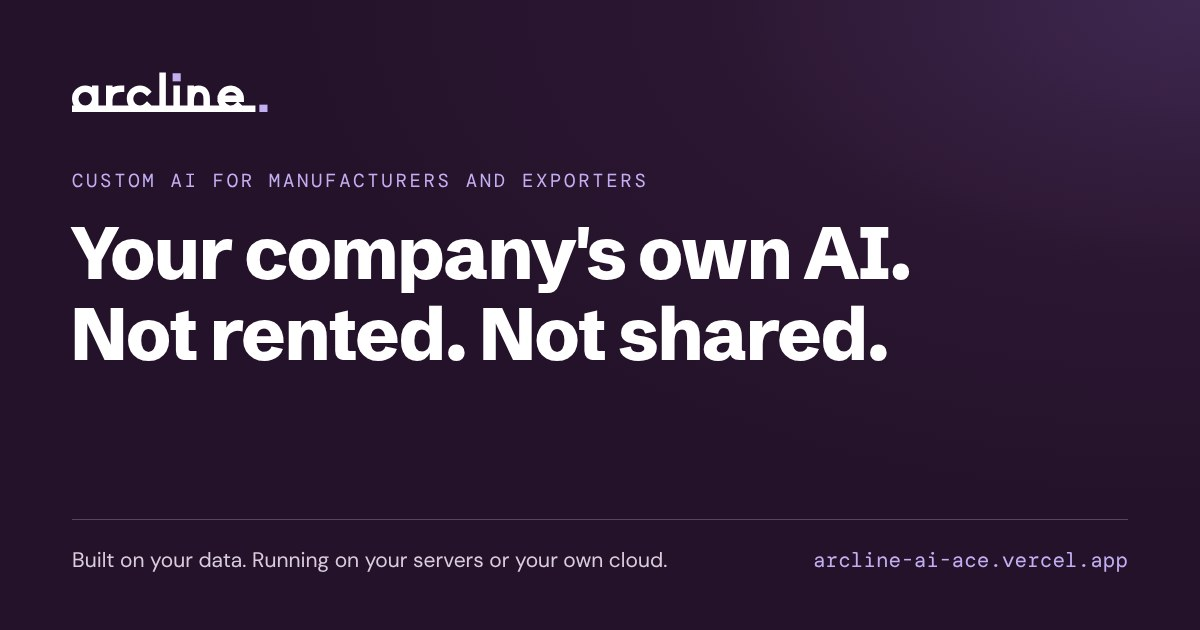
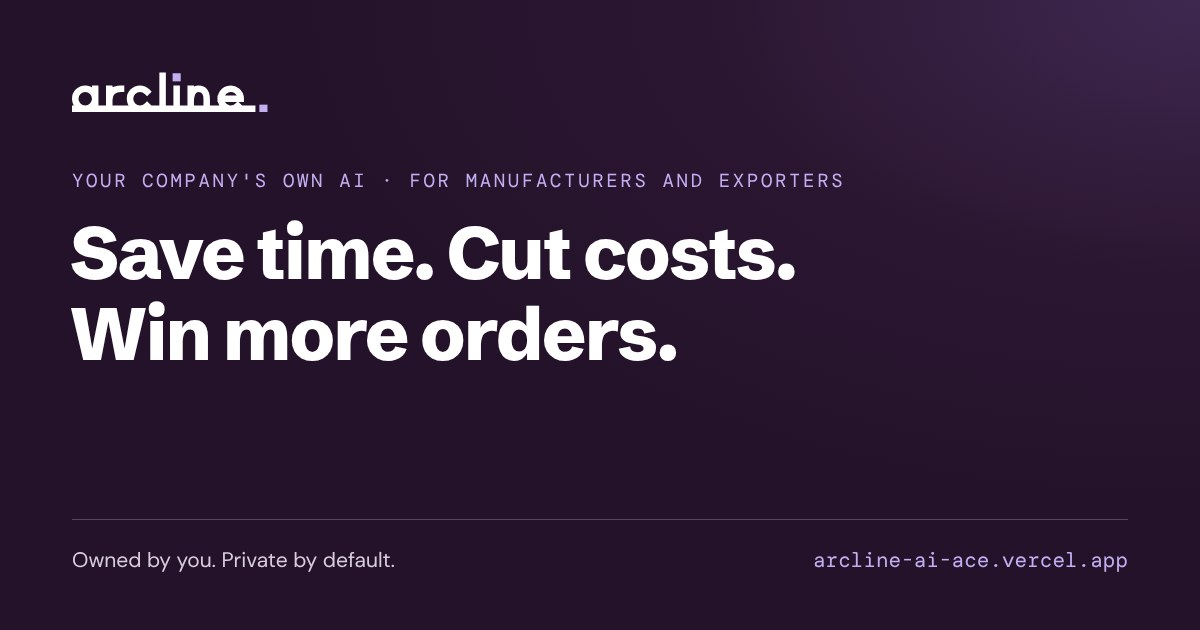
Preview: lead with time, cost and orders; privacy second
Headline "Save time. Cut costs. Win more orders." The problem is time lost to
paperwork, the three tiles are outcomes, ownership moves to "And it stays
yours". New share image; notes record the positioning and open questions.

Claude-Session: https://claude.ai/code/session_01HQcxS16Qqmuyumo6rD9J1n

diff --git a/index.html b/index.html
@@ -3,17 +3,17 @@
 <head>
   <meta charset="UTF-8" />
   <meta name="viewport" content="width=device-width, initial-scale=1.0" />
-  <title>Arcline — Your company's own AI</title>
-  <meta name="description" content="Arcline builds your company's own AI: built on your data, running on your servers or your own cloud account. Not rented. Not shared." />
+  <title>Arcline — AI that saves time, cuts costs and wins orders</title>
+  <meta name="description" content="Custom AI for manufacturers and exporters. It saves your team hours, cuts costs and helps you win more orders. Owned by you, private by default." />
 
-  <meta property="og:title" content="Arcline — Your company's own AI" />
-  <meta property="og:description" content="Your company's own AI. Not rented. Not shared." />
+  <meta property="og:title" content="Arcline — Save time. Cut costs. Win more orders." />
+  <meta property="og:description" content="Your company's own AI, built for manufacturers and exporters." />
   <meta property="og:url" content="https://arcline-ai-ace.vercel.app/" />
   <meta property="og:type" content="website" />
   <meta property="og:image" content="https://arcline-ai-ace.vercel.app/assets/og-banner.jpg" />
   <meta property="og:image:width" content="1200" />
   <meta property="og:image:height" content="630" />
-  <meta property="og:image:alt" content="Arcline: your company's own AI. Not rented. Not shared." />
+  <meta property="og:image:alt" content="Arcline: save time, cut costs, win more orders." />
   <meta name="twitter:card" content="summary_large_image" />
   <meta name="theme-color" content="#2B1631" />
 
@@ -67,10 +67,10 @@
             </svg>
           <p class="mark__tip" aria-hidden="true"></p>
         </div>
-        <h1 class="hero__title">Your company's own AI. <span>Not rented. Not shared.</span></h1>
+        <h1 class="hero__title">Save time. Cut costs. <span>Win more orders.</span></h1>
         <div class="hero__grid">
           <div class="hero__text">
-            <p class="hero__sub">For manufacturers and exporters. On your servers, or your own cloud.</p>
+            <p class="hero__sub">Your company's own AI, built for manufacturers and exporters. Private by default.</p>
             <div class="hero__actions">
               <a class="btn btn--solid" href="#contact">Book a call</a>
               <a class="btn btn--line" href="#proof">See our work</a>
@@ -121,8 +121,8 @@
       <div class="wrap">
         <div class="panel">
           <p class="eyebrow eyebrow--light">The problem</p>
-          <h2 class="statement" id="problem-title">Rented AI doesn't know your company.</h2>
-          <p class="statement__after">And what you paste in <strong>never comes back.</strong></p>
+          <h2 class="statement" id="problem-title">Your best people spend the day on paperwork.</h2>
+          <p class="statement__after">Quotes, documents, follow-ups. <strong>Meanwhile, orders wait.</strong></p>
         </div>
       </div>
     </section>
@@ -131,19 +131,19 @@
     <section class="block" id="build" aria-labelledby="build-title">
       <div class="wrap">
         <p class="eyebrow">What we build</p>
-        <h2 class="block__title" id="build-title">One AI for your whole company.</h2>
+        <h2 class="block__title" id="build-title">Where it pays for itself.</h2>
         <ul class="jobs">
           <li id="job-docs" data-job="docs">
             <span class="jobs__n" aria-hidden="true">01</span>
-            <div><h3>Knows your business</h3><p>Answers from your orders, prices and emails, with sources.</p></div>
+            <div><h3>Win more orders</h3><p>Reply to buyers first, with quotes drafted from your own prices.</p></div>
           </li>
           <li id="job-queries" data-job="queries">
             <span class="jobs__n" aria-hidden="true">02</span>
-            <div><h3>Does the work</h3><p>Quotes, export documents, sheet updates. You approve.</p></div>
+            <div><h3>Save hours</h3><p>Export documents, reports and sheet updates, done for you. You approve.</p></div>
           </li>
           <li id="job-reports" data-job="reports">
             <span class="jobs__n" aria-hidden="true">03</span>
-            <div><h3>Fits every team</h3><p>Sales, accounts, production. Each sees only its own.</p></div>
+            <div><h3>Cut costs</h3><p>Fewer errors, less rework. Grow without the paperwork growing.</p></div>
           </li>
         </ul>
       </div>
@@ -152,7 +152,7 @@
     <!-- WHY ARCLINE: three promises, the logo's square as their full stop -->
     <section class="block" id="why" aria-labelledby="why-title">
       <div class="wrap">
-        <p class="eyebrow" id="why-title">Why Arcline</p>
+        <p class="eyebrow" id="why-title">And it stays yours</p>
         <ul class="vows">
           <li data-job="queries">You own it</li>
           <li data-job="reports">Your data stays inside</li>
@@ -219,7 +219,7 @@
           <h2 class="block__title" id="questions-title">What owners ask first.</h2>
         </div>
         <div class="faq">
-          <details><summary>How is this different from ChatGPT?</summary><p>ChatGPT is rented and shared. This is yours.</p></details>
+          <details><summary>How is this different from ChatGPT?</summary><p>ChatGPT gives your staff a chat box. We build the finished workflow, on your data.</p></details>
           <details><summary>Does our data train anyone's AI?</summary><p>No. It stays on your servers or your own cloud.</p></details>
           <details><summary>Our staff aren't technical.</summary><p>If they use WhatsApp, they can use this. In English, Hindi or Marathi.</p></details>
           <details><summary>What does it cost?</summary><p>A fixed quote, agreed before work starts.</p></details>
@@ -231,7 +231,7 @@
     <section class="contact" id="contact" aria-labelledby="contact-title">
       <div class="wrap">
         <p class="eyebrow eyebrow--light">Book a call</p>
-        <h2 class="contact__title" id="contact-title">Let's build your company's own AI.</h2>
+        <h2 class="contact__title" id="contact-title">Let's find the hours your team loses.</h2>
         <p class="contact__lead">Tell us one task that eats your week.</p>
         <div class="contact__actions">
           <a class="btn btn--light" href="https://wa.me/918857852631?text=Hi%20Arcline%2C%20I%27d%20like%20to%20book%20a%20discovery%20call%20about%20AI%20for%20our%20company." target="_blank" rel="noopener noreferrer">WhatsApp us</a>

diff --git a/CLAUDE.md b/CLAUDE.md
@@ -23,10 +23,16 @@ network here blocks `*.vercel.app`; check deployments with the Vercel tools and 
 
 ## Positioning (30 October 2026)
 
-"Your company's own AI. Not rented. Not shared." Arcline builds custom AI for the whole company, owned by the
-company: built on its data, on its own servers or a private cloud account in its name (the client's choice). Not
-"a private ChatGPT that finds documents". The way in stays one workflow pilot, then grow across teams; don't sell
-a company-wide setup from day one until a reference client exists.
+**First: outcomes.** "Save time. Cut costs. Win more orders." The owner wants time, cost and revenue as the main
+message; privacy and ownership are the second message ("And it stays yours"). Keep outcomes concrete (tasks:
+quotes, export documents, reports, sheet updates) and never print numbers until a pilot has measured them.
+Angles advised: speed wins export orders ("reply to buyers first"); the big tools sell seats, Arcline builds the
+finished workflow. Pending the owner's yes: "no per-user fees" (ownership as a cost argument) and "we measure
+your hours before and after the pilot".
+
+**Second: ownership.** Your company's own AI, built on its data, on its own servers or a private cloud account in
+its name (the client's choice), never used to train anyone else's AI. The way in stays one workflow pilot, then
+grow across teams; don't sell a company-wide setup from day one until a reference client exists.
 
 ## Promises the copy makes (must be deliverable)
 
@@ -39,8 +45,8 @@ one is built. These are sold as a build service; no finished product exists yet.
 
 ## Owner's decisions (October 2026)
 
-- The owner wanted the main site's vibe: the hero "a." mark (three dots instead of seven categories: "Knows your
-  business", "Does the work", "Fits every team"; ids and colours still named docs, queries, reports), the
+- The owner wanted the main site's vibe: the hero "a." mark (three dots instead of seven categories: "Win more
+  orders", "Save hours", "Cut costs"; ids and colours still named docs, queries, reports), the
   scrolling strip, decoding labels, counting stats, nav section label, card spotlight. The headline stays the
   promise under the mark; don't swap it back for the brand name (the Ogilvy audit's main fix).
 - Share image: `assets/og-banner.jpg` (1200 × 630), headline on the dark band with the live address. Rebuild it
